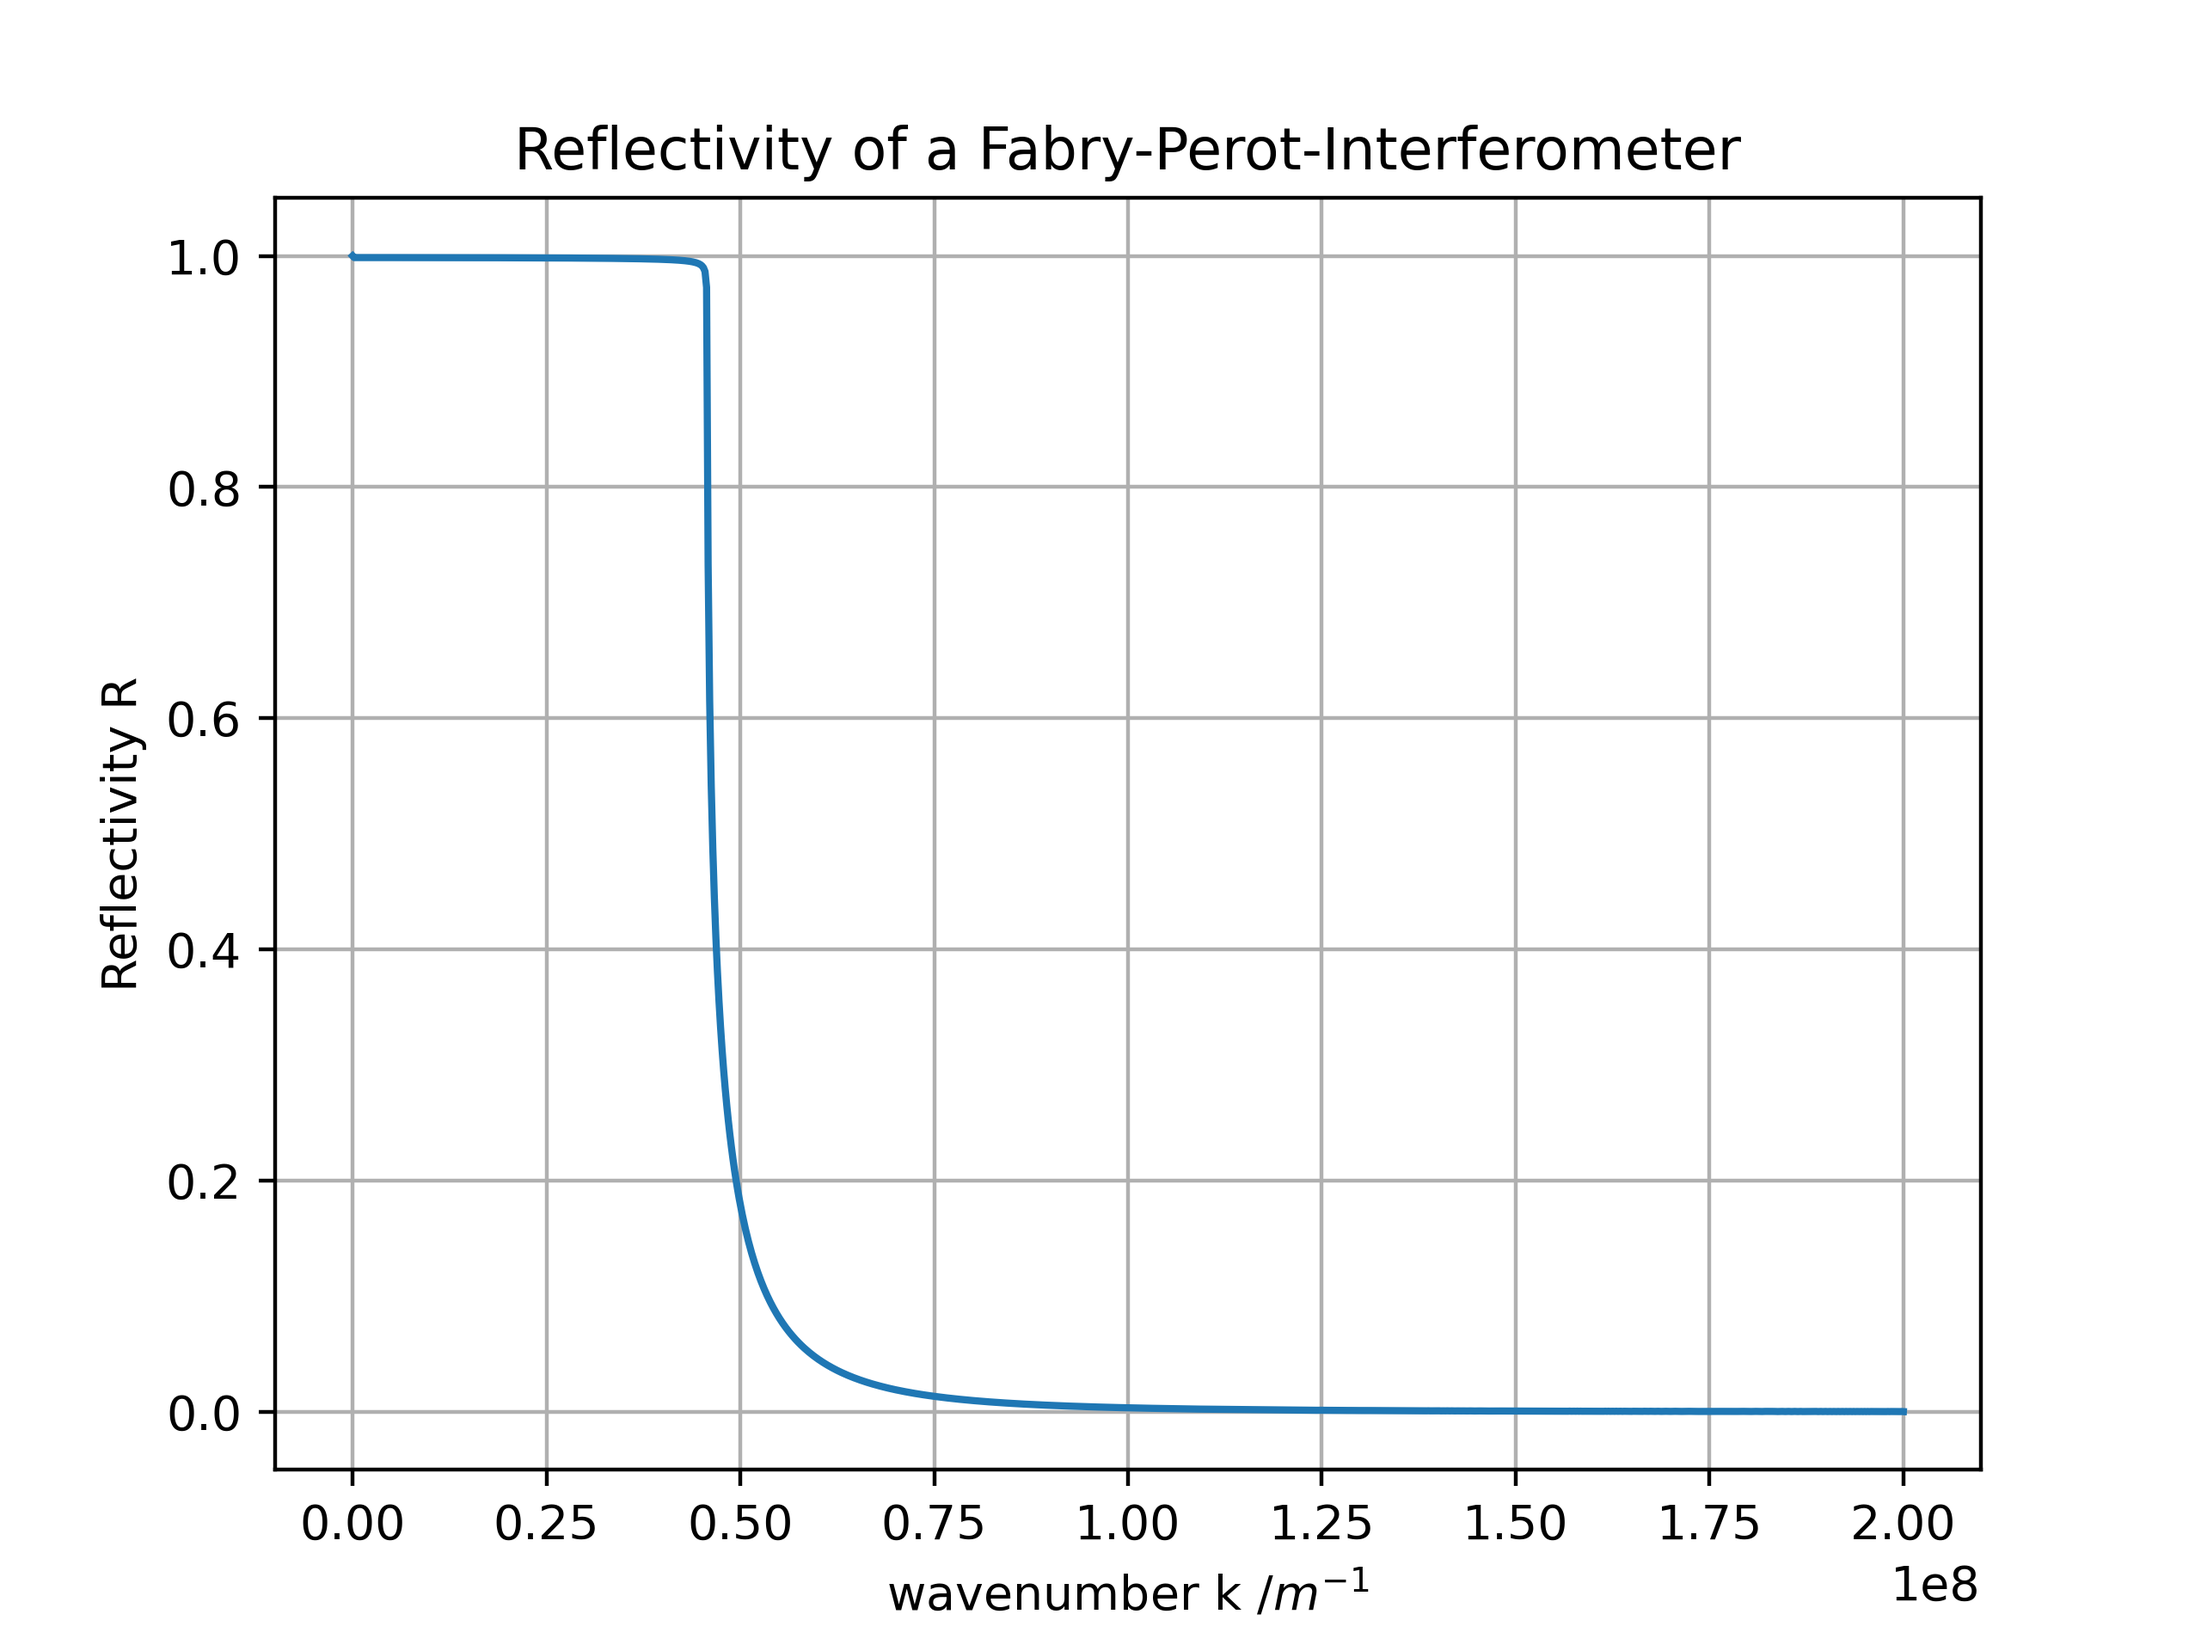
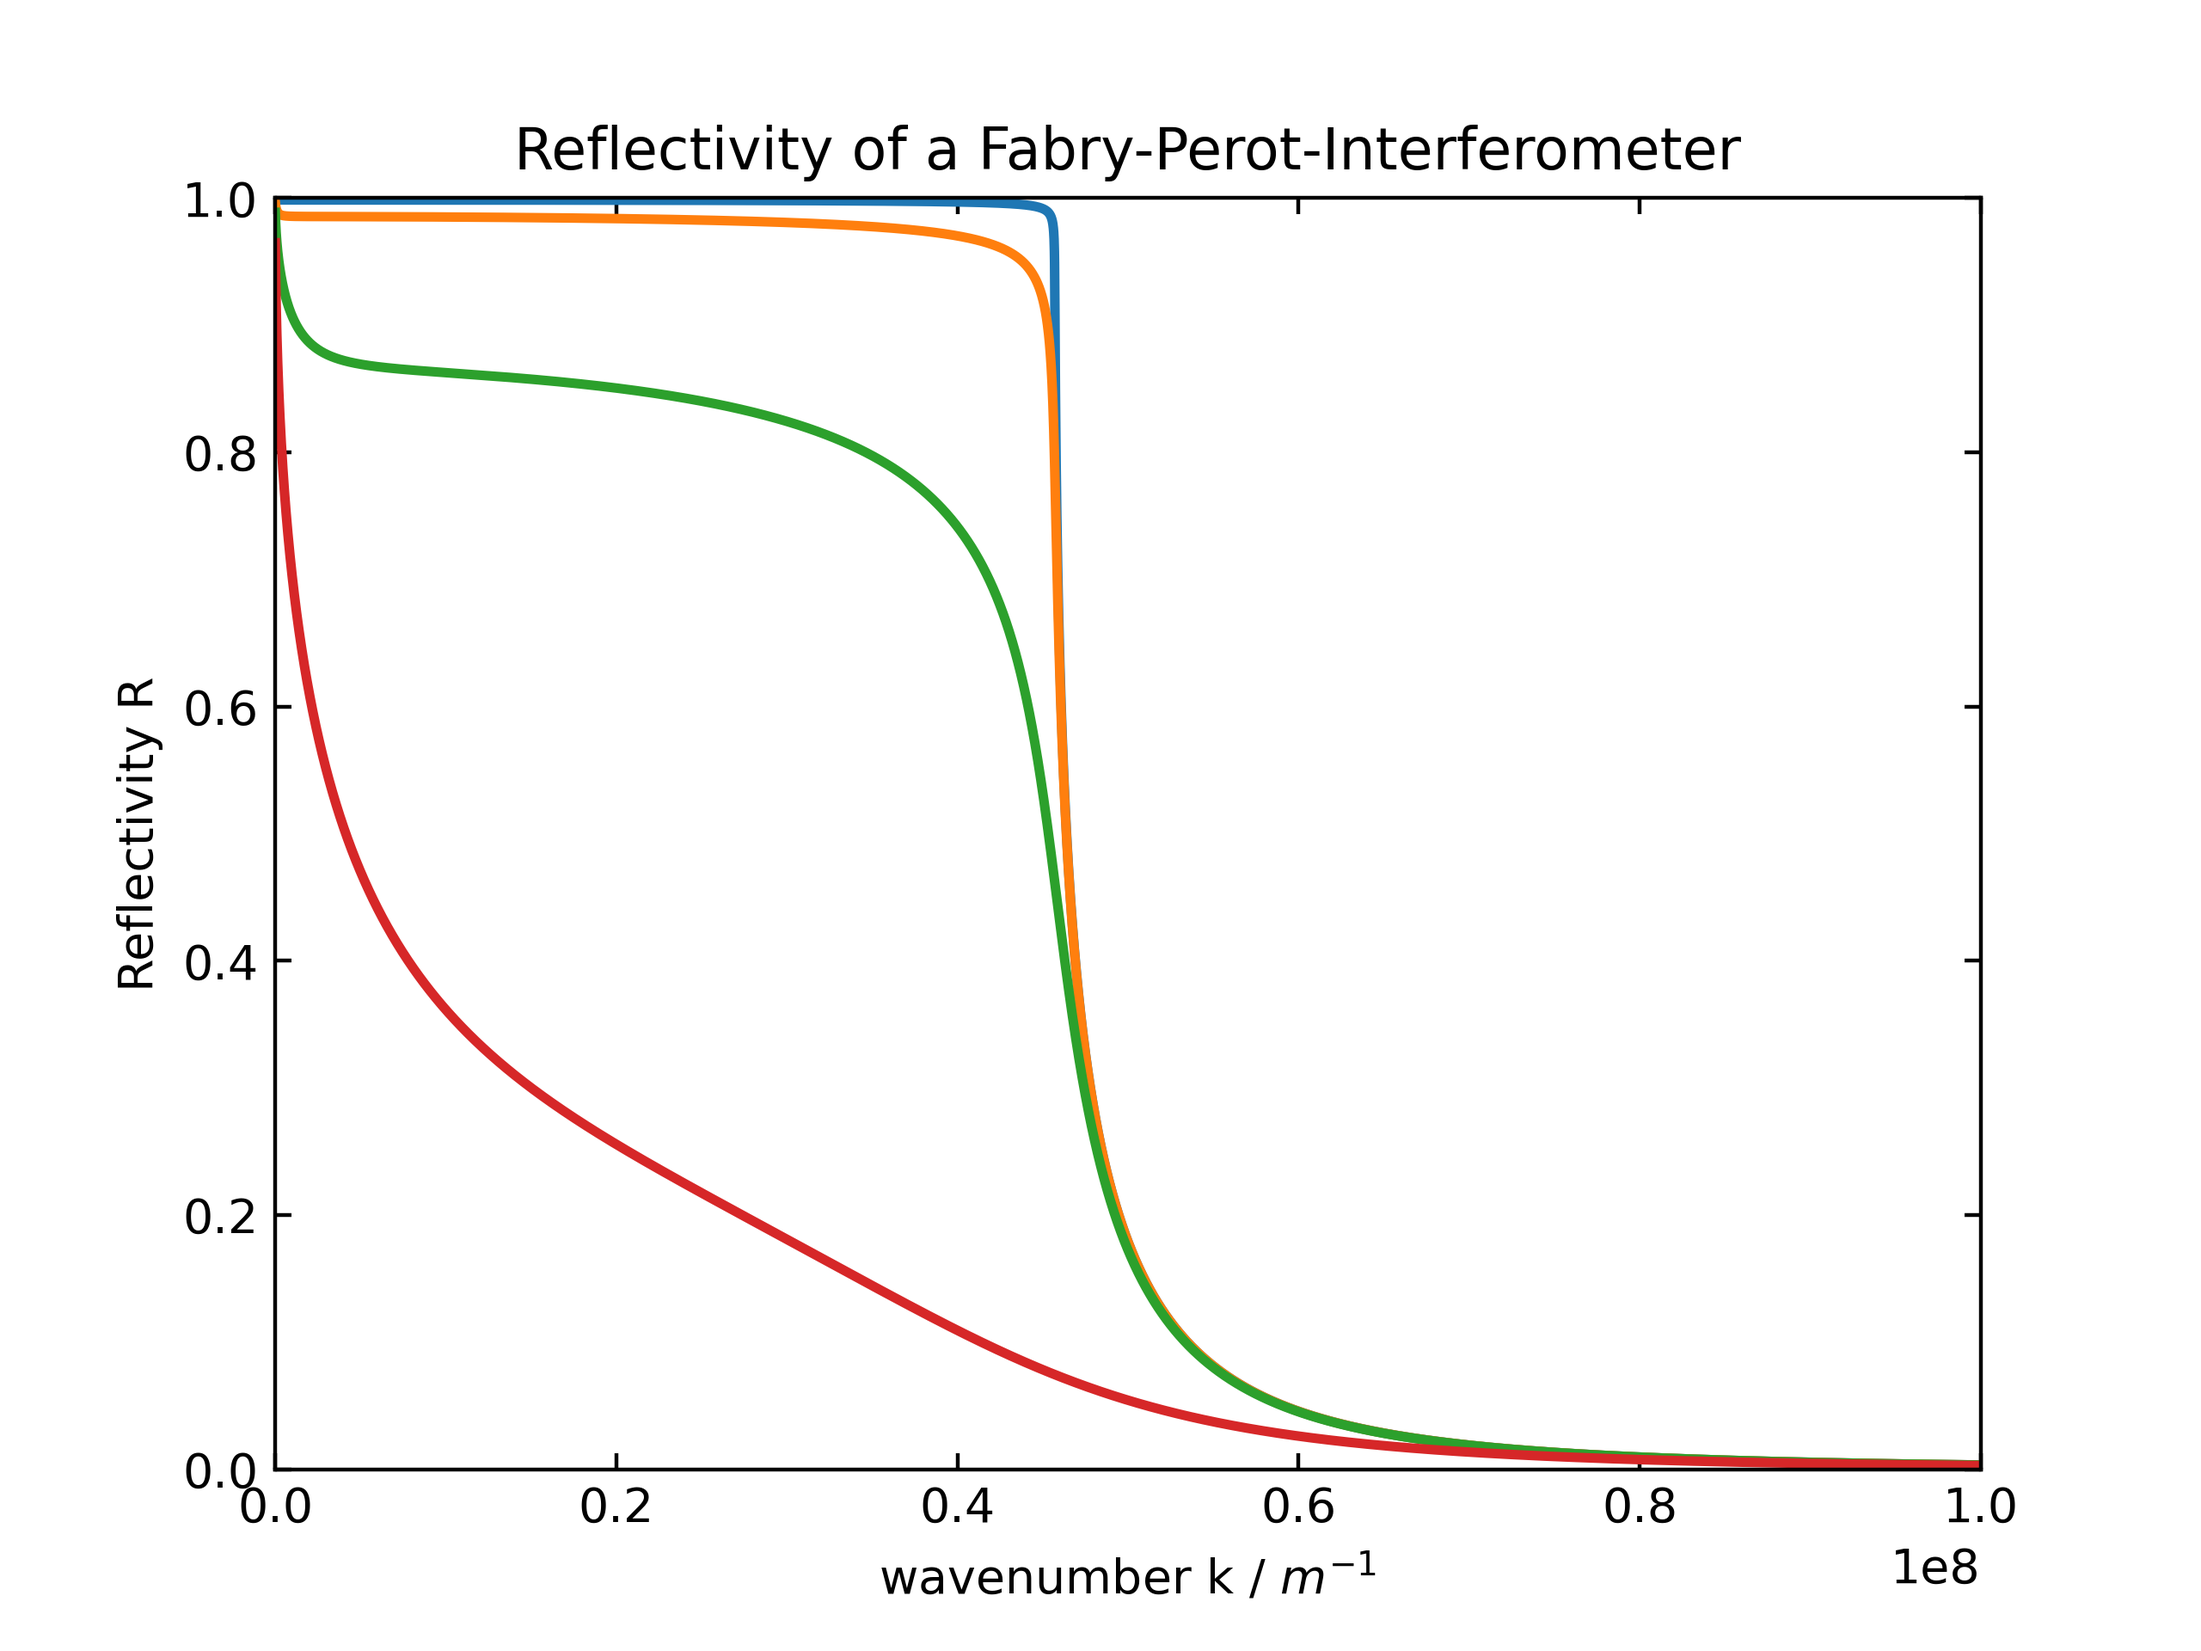
Refactor reflectivity calculation and update plot for multiple tau values

diff --git a/SolidStateOptics/Theory/Theoretical Curve Reflection.py b/SolidStateOptics/Theory/Theoretical Curve Reflection.py
@@ -7,39 +7,46 @@ e = const.e
 m_eff = 1*const.m_e
 epsilon_0 = const.epsilon_0
 N_Dichte = 5.9*10**28
-tau = 0.1*10**-12
+tau1 = 0.1*10**-12
+tau2 = 0.01*10**-12
+tau3 = 0.001*10**-12
+tau4 = 0.0001*10**-12
 c=const.c
 d = 100 *10**-5 #dicke si undoped
 k_max = 1*10**8
 
+def calculateReflectivity(d, tau, k):
+    omega = c*k
+    omega_p = np.sqrt(N_Dichte*e**2/(m_eff*epsilon_0))
+    epsilon = 1-omega_p**2*tau**2/(1+omega**2*tau**2)+1j*omega_p**2*tau/omega/(1+omega**2*tau**2)
+    N = np.sqrt(epsilon)
 
-
-k = np.linspace(0.001,k_max,1000)
-omega = c*k
-omega_p = np.sqrt(N_Dichte*e**2/(m_eff*epsilon_0))
-epsilon = 1-omega_p**2*tau**2/(1+omega**2*tau**2)+1j*omega_p**2*tau/omega/(1+omega**2*tau**2)
-N = np.sqrt(epsilon)
-#R_Halbraum = np.abs((N - 1)/(N + 1))**2
-
-
-#Gleichung 1.60 skript
-expo = 1j*2*omega*N*d/c
-r=(np.exp(expo)-1)*(1-N)/(np.exp(expo)*(1-N)-(1+N))
-R_FabryPerot = np.abs(r)**2
+    #Gleichung 1.60 skript
+    expo = 1j*2*omega*N*d/c
+    r=(np.exp(expo)-1)*(1-N)/(np.exp(expo)*(1-N)-(1+N))
+    R_FabryPerot = np.abs(r)**2
+    return R_FabryPerot
 
 
 fig, ax = plt.subplots()
         
-ax.plot(k,R_FabryPerot)
+k = np.linspace(0, k_max, 10000)
+ax.plot(k, calculateReflectivity(d, tau1, k), linewidth=2)
+ax.plot(k, calculateReflectivity(d, tau2, k), linewidth=2)
+ax.plot(k, calculateReflectivity(d, tau3, k), linewidth=2)
+ax.plot(k, calculateReflectivity(d, tau4, k), linewidth=2)
+
+
 
 #ax.set_xticks([0, 0.25, 0.5, 0.75, 1], [r'$\Gamma$', 'X', 'M', 'Y', r'$\Gamma$'], size=14)
 
 ax.set_ylabel('Reflectivity R')
-ax.set_xlabel('wavenumber k /' + r'$m^{-1}$')
+ax.set_xlabel('wavenumber k / ' + r'$m^{-1}$')
 ax.set_title('Reflectivity of a Fabry-Perot-Interferometer')
-#ax.set_xlim(left=0, right=2)
-#ax.set_ylim(bottom=-3, top=3)
-ax.grid()
+ax.tick_params(axis='both', direction='in', which='both', top=True, right=True)
+ax.set_xlim(left=0, right=k_max)
+ax.set_ylim(bottom=0, top=1)
+#ax.grid()
 
 plt.savefig('Paper/Images/foo.png', dpi=400)
 from PIL import Image
